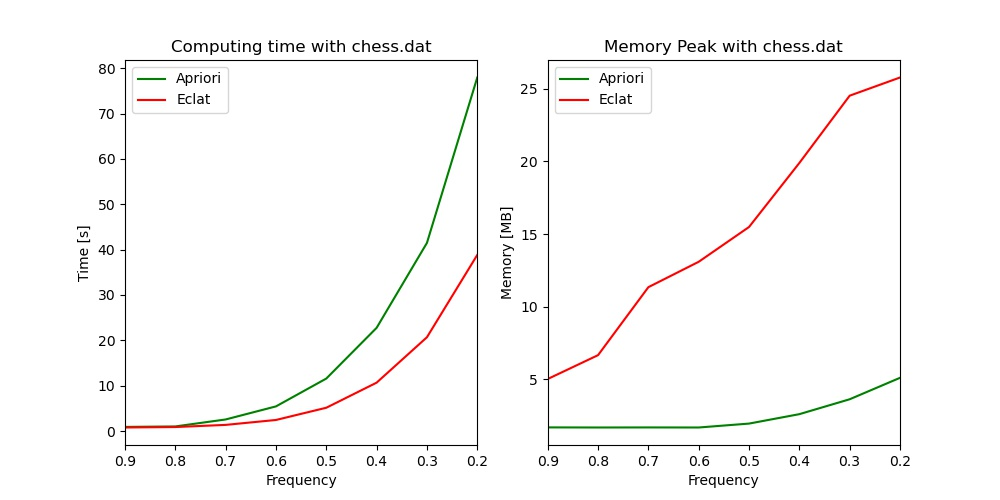
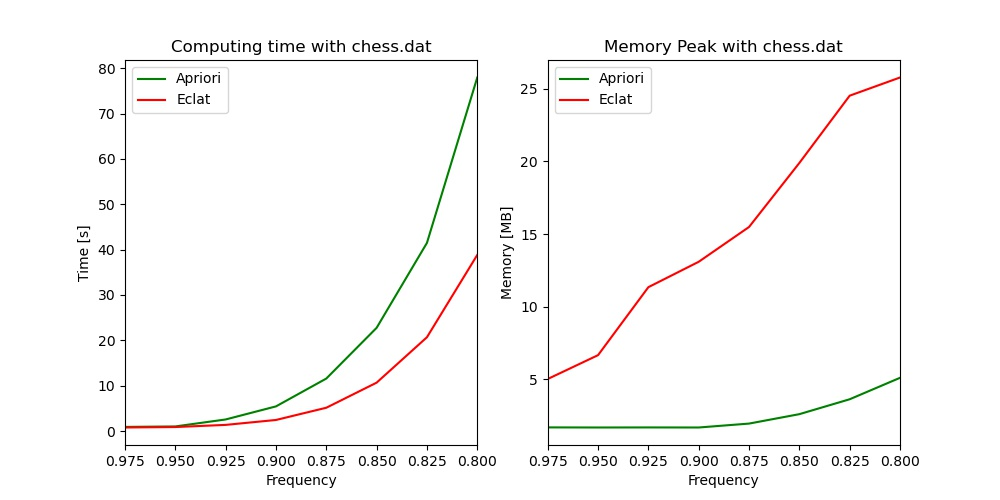
update plots

Changed region(s): [[0.527, 0.9, 0.93, 0.93], [0.093, 0.9, 0.496, 0.93]]

diff --git a/Project 1 Implementing Apriori-20220211/plot.py b/Project 1 Implementing Apriori-20220211/plot.py
@@ -30,21 +30,21 @@ dataApChess = pd.read_csv("Performance/apriorichess.csv")
 dataEcChess = pd.read_csv("Performance/eclatchess.csv")
 plt.figure(figsize=(10, 5))
 plt.subplot(1, 2, 1)
-plt.plot(dataApMush.minFrequency,dataApChess.duration, label='Apriori', color='g')
-plt.plot(dataEcMush.minFrequency,dataEcChess.duration, label='Eclat', color='r')
+plt.plot(dataApChess.minFrequency,dataApChess.duration, label='Apriori', color='g')
+plt.plot(dataEcChess.minFrequency,dataEcChess.duration, label='Eclat', color='r')
 plt.title("Computing time with chess.dat")
 plt.xlabel('Frequency')
 plt.ylabel('Time [s]')
 plt.legend()
-plt.xlim(max(dataApMush.minFrequency),min(dataApMush.minFrequency))
+plt.xlim(max(dataApChess.minFrequency),min(dataApChess.minFrequency))
 
 plt.subplot(1, 2, 2)
-plt.plot(dataApMush.minFrequency,dataApChess.Peak, label='Apriori', color='g')
-plt.plot(dataEcMush.minFrequency,dataEcChess.Peak, label='Eclat', color='r')
+plt.plot(dataApChess.minFrequency,dataApChess.Peak, label='Apriori', color='g')
+plt.plot(dataApChess.minFrequency,dataEcChess.Peak, label='Eclat', color='r')
 plt.title("Memory Peak with chess.dat")
 plt.xlabel('Frequency')
 plt.ylabel('Memory [MB]')
 plt.legend()
-plt.xlim(max(dataApMush.minFrequency),min(dataApMush.minFrequency))
+plt.xlim(max(dataApChess.minFrequency),min(dataApChess.minFrequency))
 plt.savefig('Performance/chess.jpg')
 plt.show()
